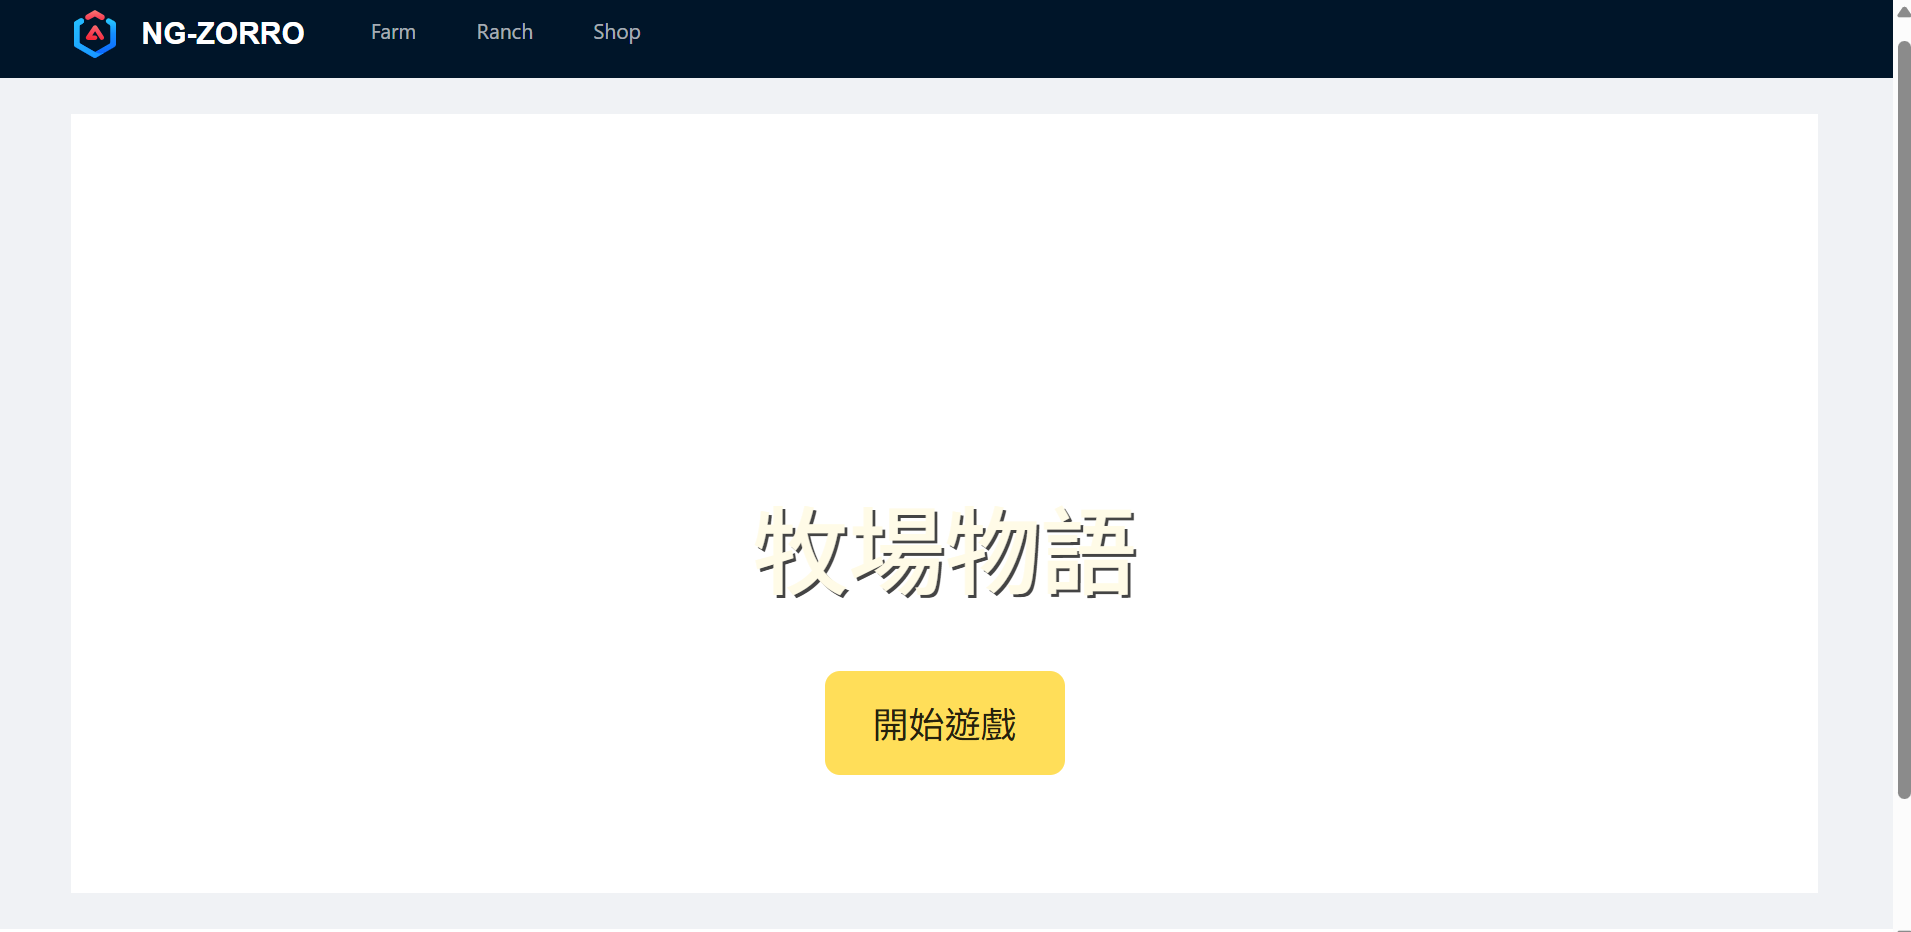
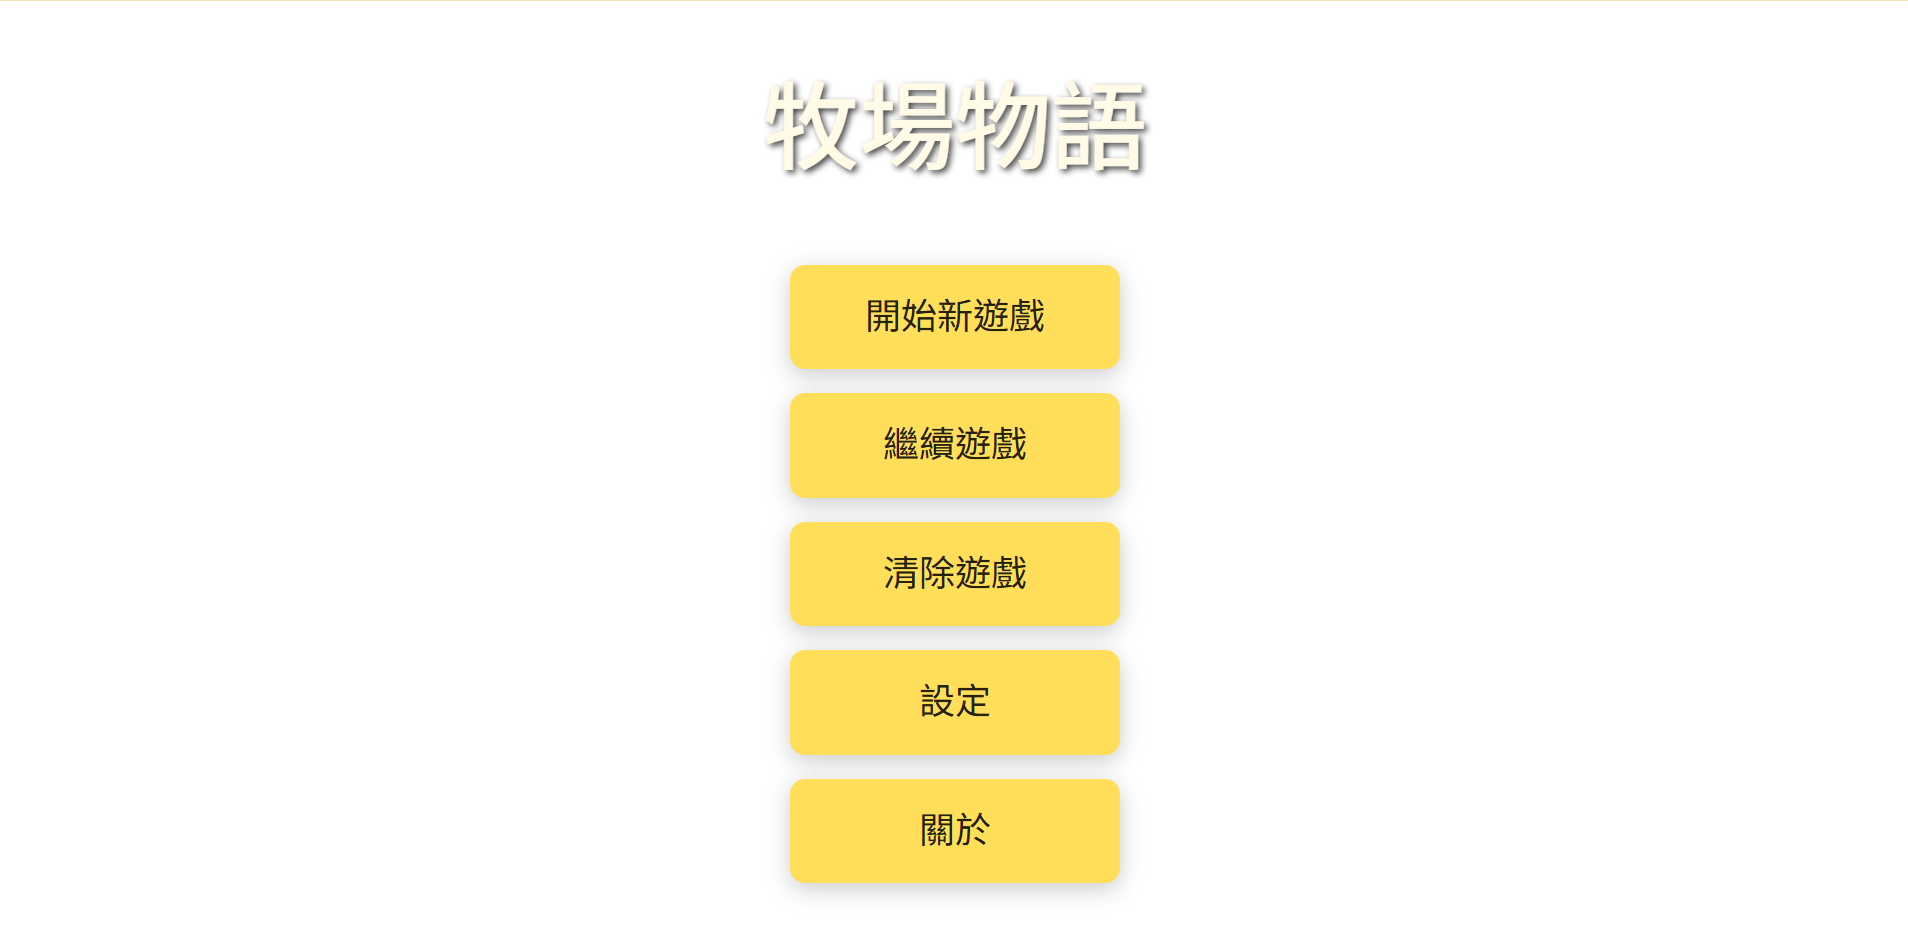
docs(README): 更新 版本紀錄 - 更新 CHANGELOG.md，新增 0.5.0 版本紀錄 - 更新README.md - 修改UI圖片

Changed region(s): [[0.0, 0.0, 1.0, 0.8712], [0.402, 0.28, 0.5875, 0.9646], [0.9895, 0.9957, 1.0, 1.0]]

diff --git a/src/app/app.routes.ts b/src/app/app.routes.ts
@@ -1,5 +1,4 @@
 import { Routes } from '@angular/router';
-import { HomeComponent } from './pages/home/home.component';
 import { FarmComponent } from './features/farm/farm.component';
 import { ShopComponent } from './features/shop/shop.component';
 import { RanchComponent } from './features/ranch/ranch.component';

diff --git a/README.md b/README.md
@@ -1,7 +1,7 @@
 # 🌾 FarmGame
-> **版本**：0.4.0  
-> **更新日期**：2025-08-13  
-> **最新更新重點**：拆解 GameStatService 為GameDataService、GameLoopService、GameManagerService、SaveLoadService四部分，並調整相關程式碼。 
+> **版本**：0.5.0  
+> **更新日期**：2025-08-19  
+> **最新更新重點**：1.首頁新增「繼續遊戲」、「清除遊戲」、「設定」、「關於」按鈕 2.重構動物、作物、物品與背包模型結構
 > 📜 [查看完整更新紀錄](CHANGELOG.md)
 > 🎯 **[線上遊玩 Demo（GitHub Pages）](https://peter110105.github.io/farm-game)**  
 
@@ -44,8 +44,6 @@
 
 ## 🖼 遊戲截圖
 
-> ⚡ 以下為示意圖，完成 UI 後可放上實際截圖
-
 - **遊戲首頁**
   ![Home Screen](docs/screenshots/home.png)
 
@@ -82,7 +80,6 @@ src/app
 │  └─ shop               # 商店功能（買賣物品）
 │
 ├─ pages
-│  └─ home               # 遊戲首頁
 │               
 └─ shared                # 共用元件或管道
 

diff --git a/CHANGELOG.md b/CHANGELOG.md
@@ -1,5 +1,20 @@
 # 📜 更新紀錄
 
+## [0.5.0] - 2025-08-19
+### 新增
+- **遊戲控制功能**
+  - 修改「開始遊戲」為「開始新遊戲」
+  - 新增「繼續遊戲」、「清除遊戲」、「設定」、「關於」按鈕
+  - GameManagerService 新增 clearGame() 方法
+### 重構
+- **動物、作物、物品與背包模型結構**
+  - 調整相關程式碼與資料
+  - 移除舊的商店物品模型結構
+  - 重構商店服務以支援新資料結構
+  - 更新商店畫面，新增購買類別標籤
+  
+---
+
 ## [0.4.0] - 2025-08-12
 ### 拆解 GameStatService
 - **GameDataService**
